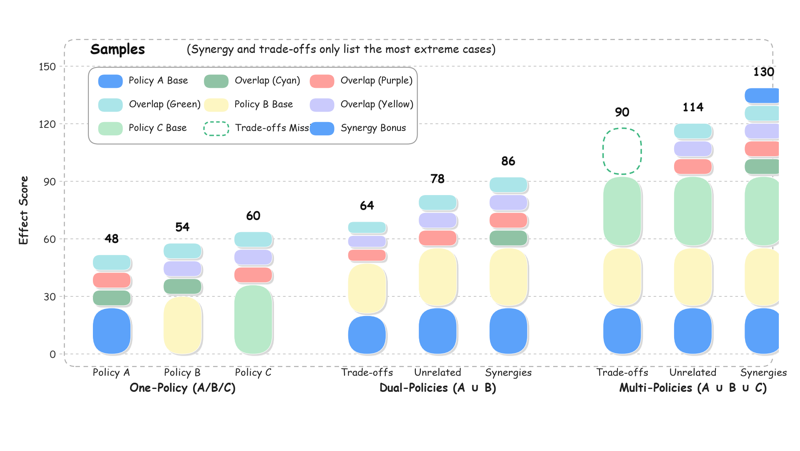
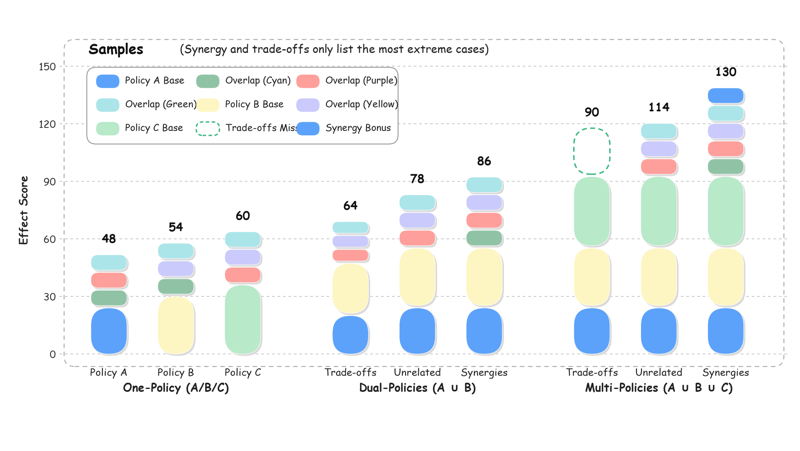
Update x_limits in cartoon_stacked_bar.py and corresponding test assertions
- Adjusted x_limits from (-0.85, 11.45) to (-0.85, 11.68) in the ChartStyle class for improved axis scaling.
- Updated test assertions in test_cartoon_stacked_bar.py to reflect the new x_limits value for consistency in unit tests.
- Minor adjustment to the frame drawing logic to align with the updated limits.

diff --git a/src/cartoon_stacked_bar.py b/src/cartoon_stacked_bar.py
@@ -342,7 +342,7 @@ class ChartStyle:
 
     figure_size: tuple[float, float] = (12.774, 7.2)
     axes_bounds: tuple[float, float, float, float] = (0.074, 0.138, 0.912, 0.792)
-    x_limits: tuple[float, float] = (-0.85, 11.45)
+    x_limits: tuple[float, float] = (-0.85, 11.68)
     y_limits: tuple[float, float] = (-18.0, 168.0)
     y_max: float = 150.0
     bar_width: float = 0.62
@@ -470,7 +470,7 @@ def _draw_frame(ax: Axes, style: ChartStyle) -> None:
     ax.add_patch(
         FancyBboxPatch(
             (style.x_limits[0] + 0.08, -6.5),
-            style.x_limits[1] - style.x_limits[0] - 0.18,
+            style.x_limits[1] - style.x_limits[0] - 0.16,
             style.y_max + 20.5,
             boxstyle="round,pad=0,rounding_size=0.18",
             mutation_aspect=aspect,

diff --git a/tests/test_cartoon_stacked_bar.py b/tests/test_cartoon_stacked_bar.py
@@ -62,7 +62,7 @@ class CartoonStackedBarTests(unittest.TestCase):
             self.assertEqual(tuple(figure.get_size_inches()), (12.774, 7.2))
             self.assertEqual(len(figure.axes), 1)
             ax = figure.axes[0]
-            np.testing.assert_allclose(ax.get_xlim(), (-0.85, 11.45))
+            np.testing.assert_allclose(ax.get_xlim(), (-0.85, 11.68))
             np.testing.assert_allclose(ax.get_ylim(), (-18.0, 168.0))
             self.assertEqual(ax.get_ylabel(), "Effect Score")
             self.assertEqual(list(ax.get_yticks()), [0.0, 30.0, 60.0, 90.0, 120.0, 150.0])
